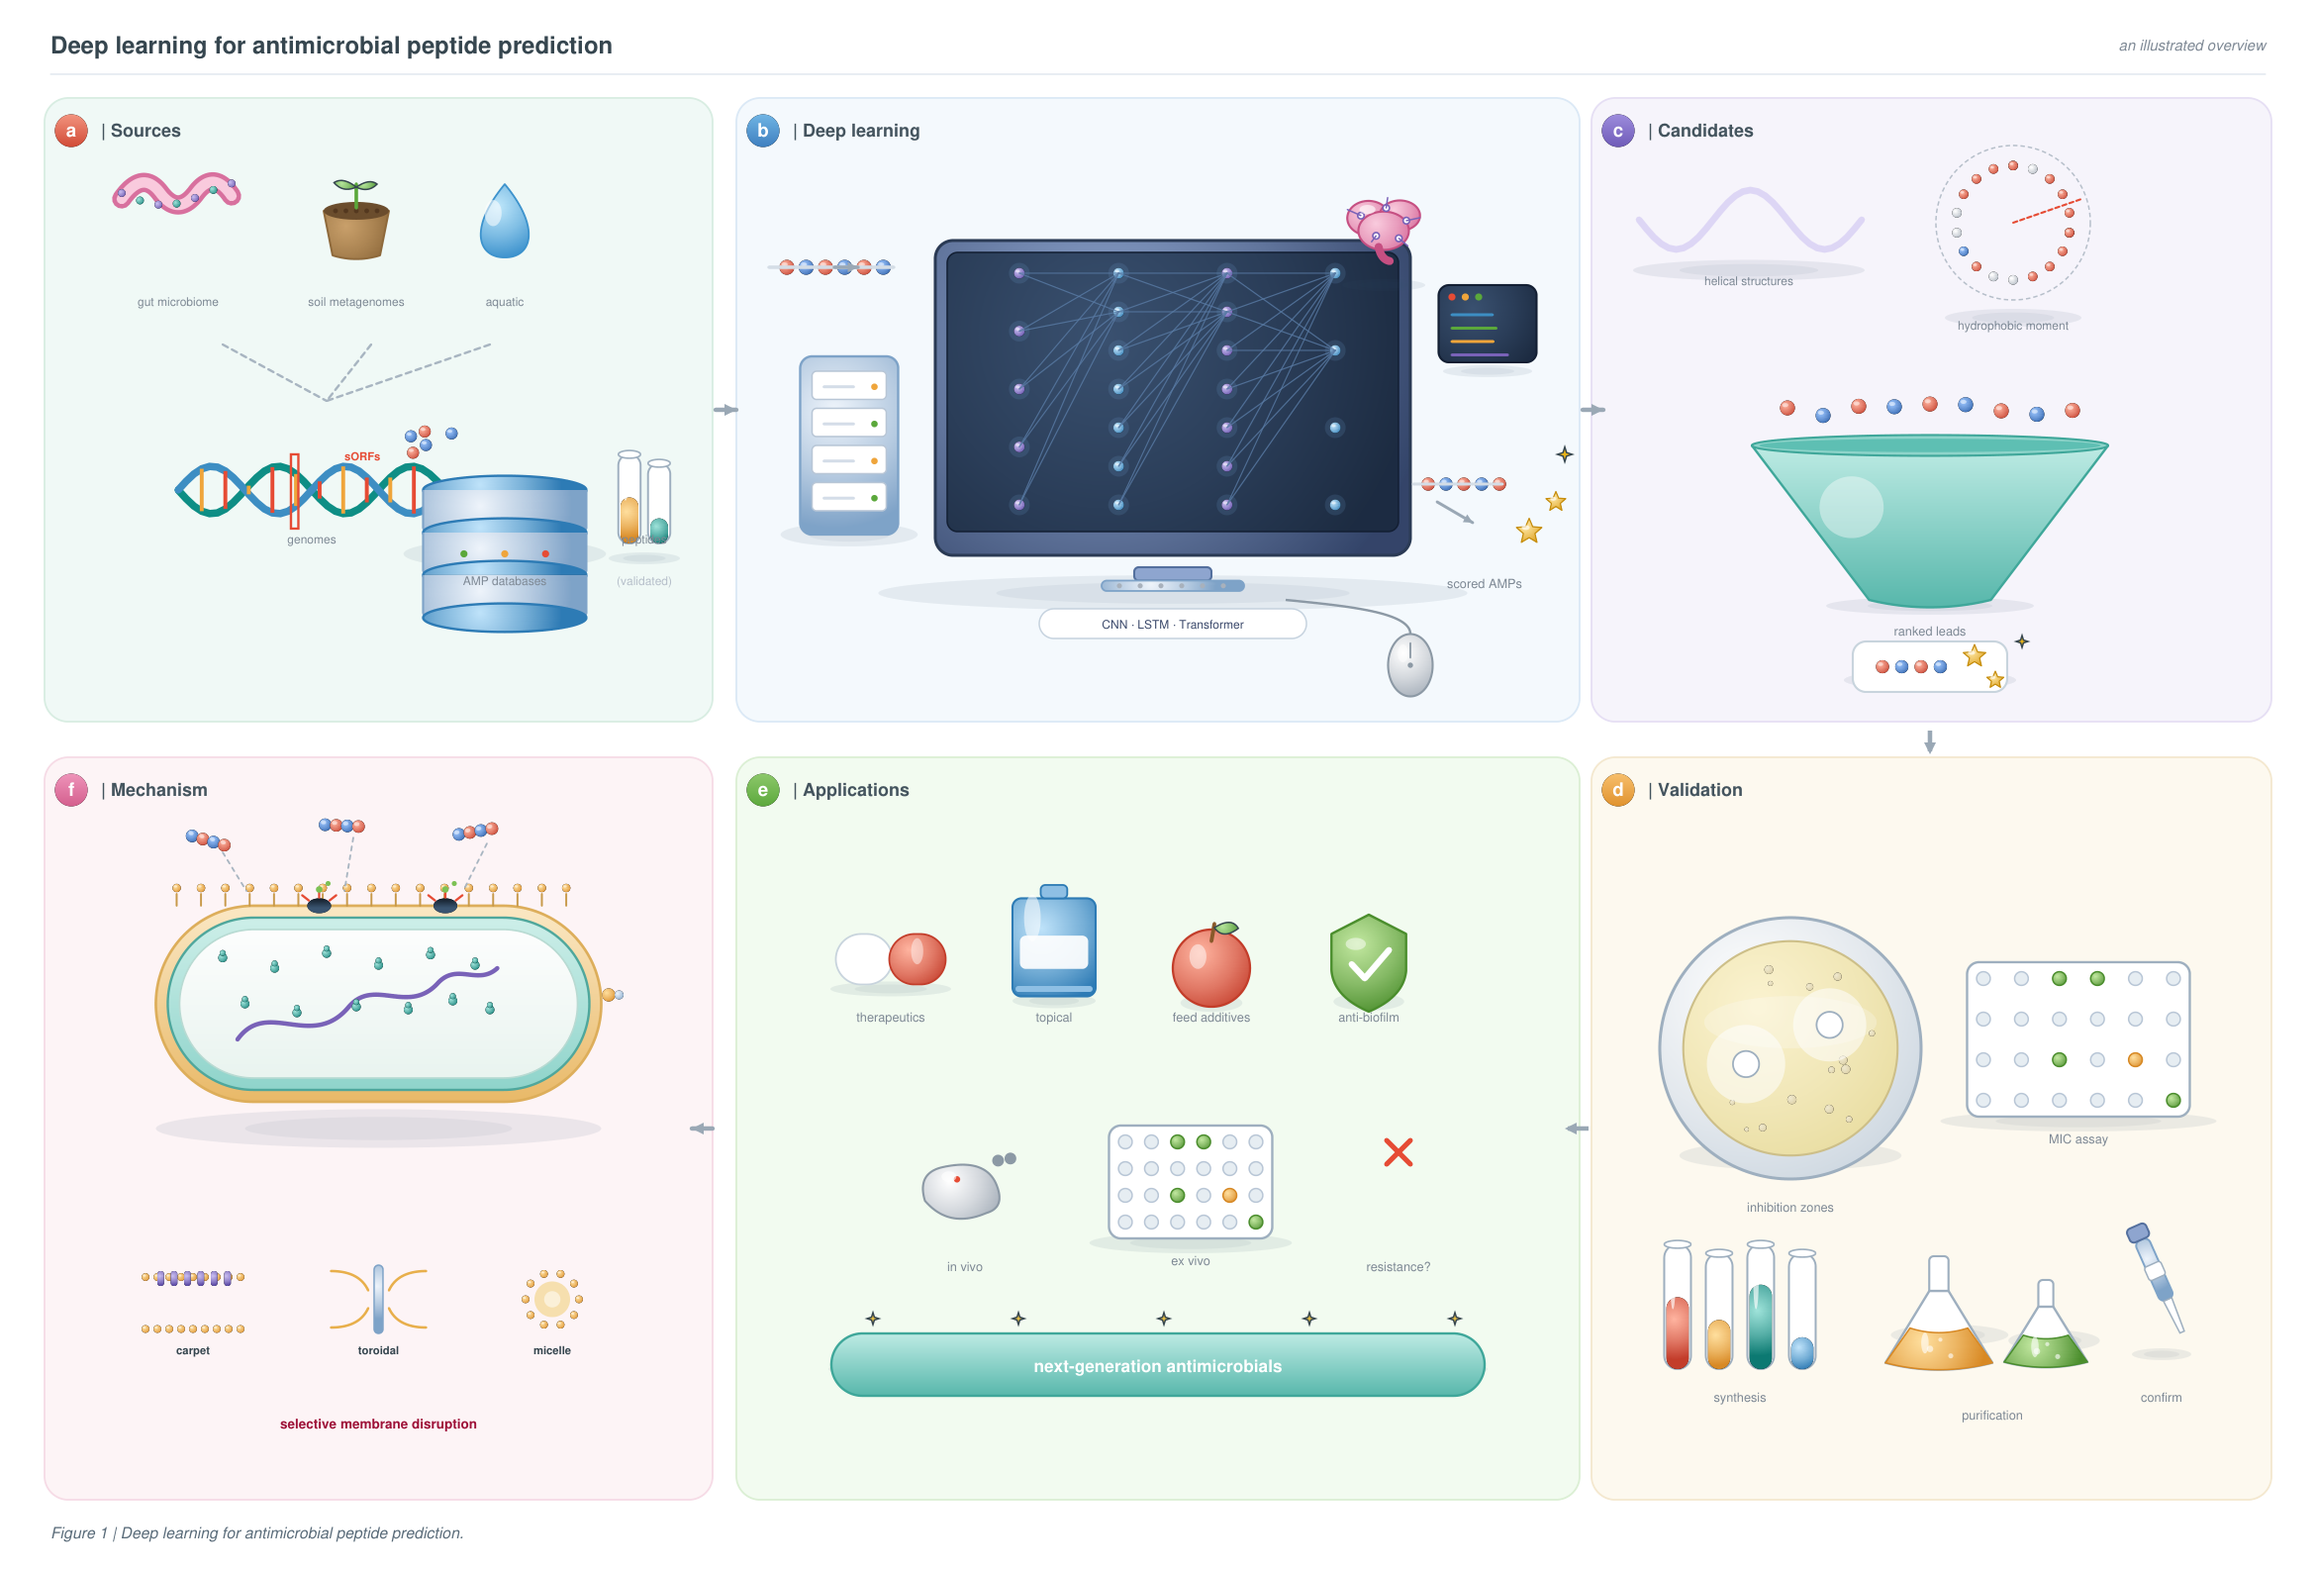
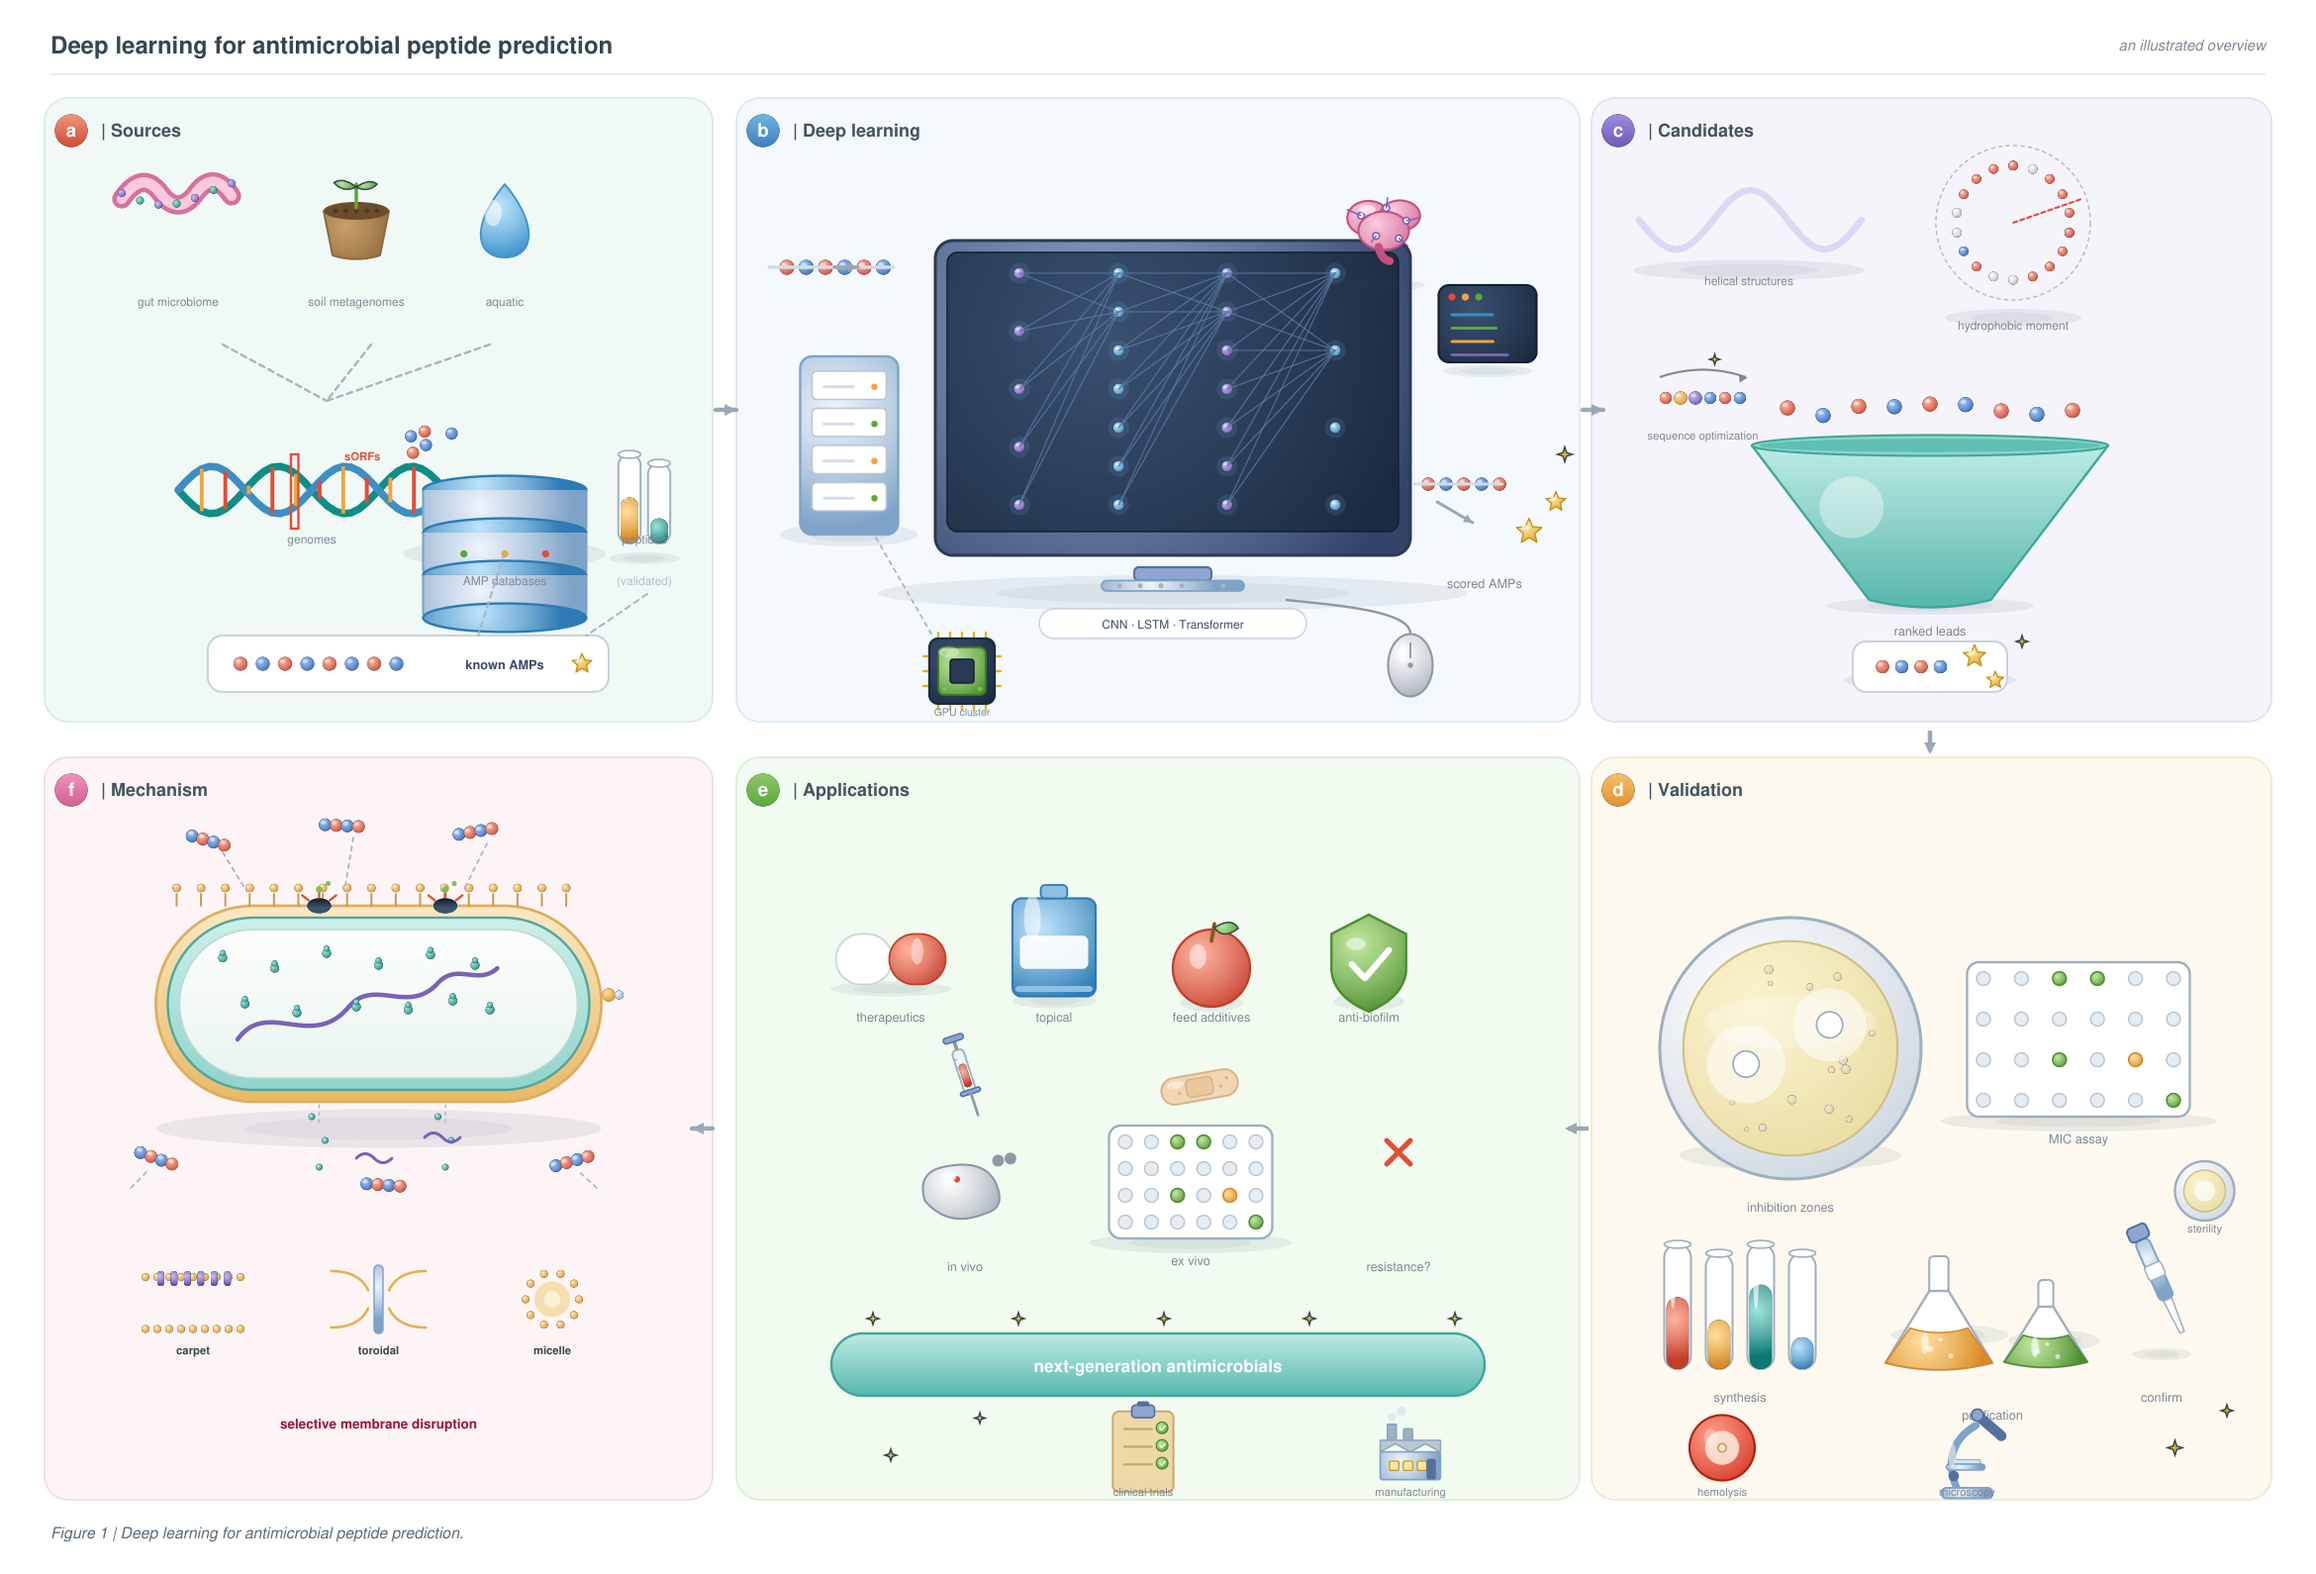
Densify AMP figure (v10): fill every empty pocket
- zone a: known-AMPs corpus card fed by databases + validated tubes
- zone b: GPU cluster chip with gold pins, dashed link from server
- zone c: sequence-optimization scene (variant beads + arc arrow)
- zone d: sterility mini-petri, hemolysis blood agar, microscope, sparkles
- zone e: syringe, bandage, clinical-trials checklist, manufacturing plant
- zone f: multi-chain AMP attack scene, pore leak droplets, DNA debris
- 1027 elements (+193), 53 labels, 0 overflows, 0 render warnings,
  all pixel probes pass (GPU pins 60px, agar halo, leaks, ticks verified)

diff --git a/figures/README.md b/figures/README.md
@@ -8,12 +8,16 @@ chunky letter chips; text is kept to short captions.
 ## Figure 1 — Deep learning for antimicrobial peptide prediction
 `amp_dl_review_fig1.svg` (master) + `.png` (2340x1590)
 
-a Sources (gut/soil/water, DNA, databases, tubes) - b Deep learning (peptide
-chain into a glowing neural-net monitor, server, code, AI brain) - c Candidates
-(helix ribbon, helical wheel, funnel to ranked-leads card) - d Validation
-(petri dish with inhibition halos, 96-well MIC plate, tubes, flasks, pipette) -
-e Applications (pill, cream, apple, shield, mouse, plate, banner) -
-f Mechanism (bacterium under AMP attack; carpet/toroidal/micelle vignettes).
+a Sources (gut/soil/water icons, DNA, databases, validated tubes, and a
+"known AMPs" corpus card) - b Deep learning (peptide chain into a glowing
+neural-net monitor, server + GPU cluster, code, AI brain, mouse) - c Candidates
+(helix ribbon, helical wheel, sequence-optimization scene, funnel to
+ranked-leads card) - d Validation (petri dish with inhibition halos, 96-well
+MIC plate, tubes, flasks, pipette, sterility/hemolysis/microscopy strip) -
+e Applications (pill, cream, apple, shield, syringe, bandage, mouse, plate,
+banner, clinical-trials checklist, manufacturing) - f Mechanism (bacterium
+under multi-chain AMP attack with pore leaks and DNA debris; carpet/toroidal/
+micelle vignettes).
 
 ## Figure 2 — Machine learning for umami peptide discovery
 `umami_ml_fig1.svg` (master) + `.png` (2340x1590)
@@ -36,3 +40,7 @@ healthy/natural/tasty icon trio).
 **Editing** - zones are named groups `zone-a`...`zone-f`; every icon is plain
 paths/ellipses referencing one `<defs>` gradient block (recolor globally).
 Generators kept out of the repo; export via PDF/EPS or 600-dpi TIFF.
+
+**Reproducibility** - the full methodology (layout system, glossy-icon rules,
+renderer-safe constraints, overflow + pixel-probe QA pipeline) is captured in
+`.claude/skills/biorender-svg-figure/` (SKILL.md + references/helpers.py).
